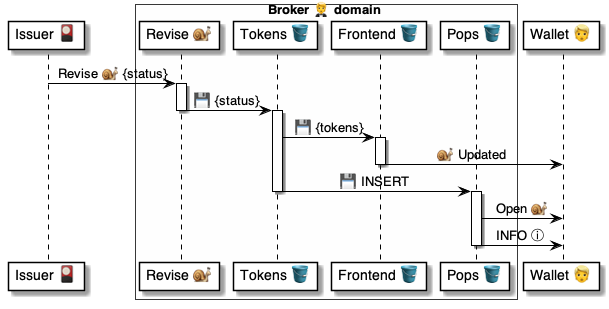
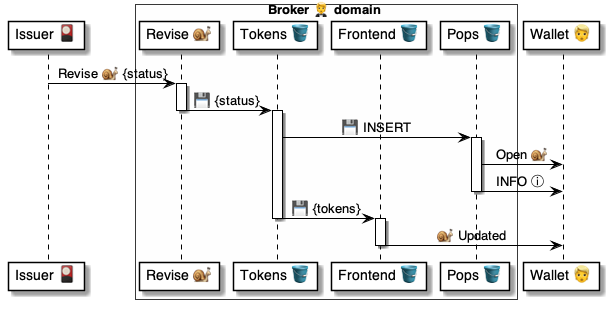
.

Changed region(s): [[0.4368, 0.3786, 0.936, 0.8155]]

diff --git a/4 ⚙ Solution/20 🧑🦰 UI/Brokers 🤵/🤵🪣 Broker tables/Pops 🎈 table/🪣 Pops/🤵 Broker.Pops 🪣 table.md b/4 ⚙ Solution/20 🧑🦰 UI/Brokers 🤵/🤵🪣 Broker tables/Pops 🎈 table/🪣 Pops/🤵 Broker.Pops 🪣 table.md
@@ -2,6 +2,10 @@
 
 > Implements the [Broker 🤵 domain](<../../../🤵 Broker helper/🤵 Broker 🤲 helper.md>)
 
+> Data access
+* [`SAVE`](<../../../../../37 Scripts 📃/📃 Commands ⌘/⌘ for datasets 🪣/SAVE 💾/💾 SAVE ⌘ cmd.md>) by [`OnPopInserted` 🔔](<../🪣🔔 11 Pop/🤵 OnPopInserted 🔔 handler.md>) after [`Pop@Broker` 🅰](<../../../🤵🅰 Broker methods/Wallets 🧑🦰 Pop 🧑🦰🐌🤵/🤵 Pop 🐌 msg.md>)
+* [`SAVE`](<../../../../../37 Scripts 📃/📃 Commands ⌘/⌘ for datasets 🪣/SAVE 💾/💾 SAVE ⌘ cmd.md>) by [`OnTokenRevised` 🔔](<../../Tokens 🎫 table/🪣🔔 7 Revised/🤵 OnTokenRevised 🔔 handler.md>) after [`Revise@Broker` 🅰](<../../../🤵🅰 Broker methods/Tokens 🎫 Revise 🎴🐌🤵/🤵 Revise 🐌 msg.md>)
+
 <br/>
 
 ## Lifecycle
@@ -15,19 +19,35 @@
 Here's the [Itemized 🛢 schema](<../../../../../30 🧩 Data/Datasets 🪣/🪣🔣 Dataset types/Itemized 🛢 dataset.md>).
 
 ```yaml
-# Pops.yaml
-
 Prefix: Broker
 Table: Pops
 Item: Pop
+```
 
+<br/>
+
+Here's the [Item 🛢 Parents](<../../../../../30 🧩 Data/Datasets 🪣/🪣🛢 Itemized datasets/Item 🛢 Parents.md>) definition.
+
+```yaml
 Parents:
-    Wallet: { Wallets.ID: Pops.Wallet }
-    Chat: { Chats.ID: Pops.Chat }
-    Token: 
+
+    Wallet: # Wallet that called Pop@Broker
+        Wallets.ID: Pops.Wallet
+
+    Chat: # Chat created for the Pop-up
+        Chats.ID: Pops.Chat
+
+    Token: # Token that inserted a Pop on Revise@Broker
         Tokens.Token: Pops.Inputs.Key.Token
         Tokens.Issuer: Pops.Inputs.Key.Issuer 
+```
+🪣 References: [`Broker.Chats`](<../../Chats 💬 table/🪣 Chats/🤵 Broker.Chats 🪣 table.md>) [`Broker.Tokens`](<../../Tokens 🎫 table/🪣 Tokens/🤵 Broker.Tokens 🪣 table.md>) [`Broker.Wallets`](<../../Wallets 🧑🦰 table/🪣 Wallets/🤵 Broker.Wallets 🪣 table.md>) 
 
+<br/>
+
+Here's the [Item 🛢 Handlers](<../../../../../30 🧩 Data/Datasets 🪣/🪣🛢 Itemized datasets/Item 🛢 Handlers.md>) definition.
+
+```yaml
 Handlers:
 
     OnPopInserted: # Open a Chat 💬
@@ -53,12 +73,13 @@ Handlers:
         Events: POPPED
         Assert: Context.Is(TOKEN.REVISED)
 ```
-
-## Links
-
-| Link | Table | Contains
-|-|-|-
-| Parents   | [`Wallets` 🪣](<../../Wallets 🧑🦰 table/🪣 Wallets/🤵 Broker.Wallets 🪣 table.md>) | [Wallets 🧑🦰](<../../../../Wallets 🧑🦰/🧑🦰 Wallet app/🧑🦰 Wallet 🛠 app.md>)
+Calls: 
+* [`OnPopInserted` 🔔 handler](<../🪣🔔 11 Pop/🤵 OnPopInserted 🔔 handler.md>) 
+* [`OnPopWallet` 🔔 handler](<../🪣🔔 21 Wallet/🤵 OnPopWallet 🔔 handler.md>) 
+* [`OnPopChat` 🔔 handler](<../🪣🔔 31 Chat/🤵 OnPopChat 🔔 handler.md>) 
+* [`OnPopBind` 🔔 handler](<../🪣🔔 51 Bind/🤵 OnPopBind 🔔 handler.md>) 
+* [`OnPopToken` 🔔 handler](<../🪣🔔 61 Token/🤵 OnPopToken 🔔 handler.md>) 
+* [`OnPopTokenRevised` 🔔 handler](<../🪣🔔 65 Token.Revised/🤵 OnPopTokenRevised 🔔 handler.md>)
 
 <br/>
 

diff --git a/4 ⚙ Solution/20 🧑🦰 UI/Brokers 🤵/🤵🪣 Broker tables/Tokens 🎫 table/🪣⏩ Flows/2 Revise/🤵 Broker.Tokens.Revise ⏩ flow.md b/4 ⚙ Solution/20 🧑🦰 UI/Brokers 🤵/🤵🪣 Broker tables/Tokens 🎫 table/🪣⏩ Flows/2 Revise/🤵 Broker.Tokens.Revise ⏩ flow.md
@@ -11,7 +11,8 @@
 Step | Purpose |
 |-|-
 |[`Revise@Broker` 🅰 method](<../../../../🤵🅰 Broker methods/Tokens 🎫 Revise 🎴🐌🤵/🤵 Revise 🐌 msg.md>)| Message for [Issuer 🎴 domains](<../../../../../../41 🎭 Domain Roles/Issuers 🎴/🎴 Issuer/🎴🎭 Issuer role.md>) to change a [Token 🎫](<../../../../../../30 🧩 Data/Tokens 🎫/🎫 Token/🎫 Token.md>)
-|[`Revise` 📃 handler](<../../../../🤵🅰 Broker methods/Tokens 🎫 Revise 🎴🐌🤵/🤵 Revise 📃 handler.md>)| [Script 📃](<../../../../../../35 💬 Chats/Scripts 📃/Script 📃.md>) that saves the [Token 🎫](<../../../../../../30 🧩 Data/Tokens 🎫/🎫 Token/🎫 Token.md>) status
-|[`OnFrontendAltered` 📃 handler](<../../../Frontend 📱 table/🪣🔔 on Altered/🤵 OnFrontendAltered 🔔 handler.md>)| [Script 📃](<../../../../../../35 💬 Chats/Scripts 📃/Script 📃.md>) that refreshes the Frontend display
+|[`Revise@Broker` 📃 handler](<../../../../🤵🅰 Broker methods/Tokens 🎫 Revise 🎴🐌🤵/🤵 Revise 📃 handler.md>)| [Script 📃](<../../../../../../35 💬 Chats/Scripts 📃/Script 📃.md>) that saves the [Token 🎫](<../../../../../../30 🧩 Data/Tokens 🎫/🎫 Token/🎫 Token.md>) status
+|[`OnTokenRevised` 🔔 handler](<../../🪣🔔 7 Revised/🤵 OnTokenRevised 🔔 handler.md>)| [Script 📃](<../../../../../../35 💬 Chats/Scripts 📃/Script 📃.md>) that registers a Pop
+|[`OnPopTokenRevised` 🔔 handler](<../../../Pops 🎈 table/🪣🔔 65 Token.Revised/🤵 OnPopTokenRevised 🔔 handler.md>) | [Script 📃](<../../../../../../35 💬 Chats/Scripts 📃/Script 📃.md>) that notifies the user
+|[`OnFrontendAltered` 🔔 handler](<../../../Frontend 📱 table/🪣🔔 on Altered/🤵 OnFrontendAltered 🔔 handler.md>)| [Script 📃](<../../../../../../35 💬 Chats/Scripts 📃/Script 📃.md>) that refreshes the Frontend display
 |[`Frontend@Broker` 🅰 method](<../../../../🤵🅰 Broker methods/Wallets 🧑🦰 Frontend 🧑🦰🚀🤵/🤵 Frontend 📃 handler.md>)| Call by a [Wallet 🧑🦰 app](<../../../../../Wallets 🧑🦰/🧑🦰 Wallet app/🧑🦰 Wallet 🛠 app.md>) app to get the display
-|[`OnTokenRevised` 📃 handler](<../../🪣🔔 7 Revised/🤵 OnTokenRevised 🔔 handler.md>)| [Script 📃](<../../../../../../35 💬 Chats/Scripts 📃/Script 📃.md>) that notifies the [`Frontend`](<../../../../🤵🅰 Broker methods/Wallets 🧑🦰 Frontend 🧑🦰🚀🤵/🤵 Frontend 📃 handler.md>) of the change

diff --git a/4 ⚙ Solution/20 🧑🦰 UI/Brokers 🤵/🤵🪣 Broker tables/Tokens 🎫 table/🪣🔔 7 Revised/🤵 OnTokenRevised 🔔 handler.md b/4 ⚙ Solution/20 🧑🦰 UI/Brokers 🤵/🤵🪣 Broker tables/Tokens 🎫 table/🪣🔔 7 Revised/🤵 OnTokenRevised 🔔 handler.md
@@ -1,4 +1,6 @@
-# 🤵 OnTokenRevised 📃 handler
+# 🤵 OnTokenRevised 🔔 handler
+
+> Part of the [`Broker.Tokens` 🪣 table](<../🪣 Tokens/🤵 Broker.Tokens 🪣 table.md>)
 
 <br/>
 
@@ -28,3 +30,9 @@
         Token: $Token.Token
         Issuer: $Token.Issuer
 ```
+
+Uses||
+|-|-
+| [Commands ⌘](<../../../../../35 💬 Chats/Scripts 📃/Command ⌘.md>) | [`ASSERT`](<../../../../../37 Scripts 📃/📃 Commands ⌘/⌘ for holders 🧠/ASSERT 🚦/🚦 ASSERT ⌘ cmd.md>) [`SAVE`](<../../../../../37 Scripts 📃/📃 Commands ⌘/⌘ for datasets 🪣/SAVE 💾/💾 SAVE ⌘ cmd.md>) |
+| [Datasets 🪣](<../../../../../30 🧩 Data/Datasets 🪣/🪣 Dataset.md>) | [`Broker.Pops`](<../../Pops 🎈 table/🪣 Pops/🤵 Broker.Pops 🪣 table.md>) [`Broker.Tokens`](<../🪣 Tokens/🤵 Broker.Tokens 🪣 table.md>) 
+|

diff --git a/4 ⚙ Solution/20 🧑🦰 UI/Brokers 🤵/🤵🪣 Broker tables/Tokens 🎫 table/🪣🔔 5 Saved/🤵 OnTokenSaved 🔔 handler.md b/4 ⚙ Solution/20 🧑🦰 UI/Brokers 🤵/🤵🪣 Broker tables/Tokens 🎫 table/🪣🔔 5 Saved/🤵 OnTokenSaved 🔔 handler.md
@@ -1,5 +1,7 @@
 # 🤵 OnTokenAccepted 📃 handler
 
+> Part of the [`Broker.Tokens` 🪣 table](<../🪣 Tokens/🤵 Broker.Tokens 🪣 table.md>)
+
 > Purpose
 * [Script 📃](<../../../../../35 💬 Chats/Scripts 📃/Script 📃.md>) that reacts to the acceptance of a [Token 🎫](<../../../../../30 🧩 Data/Tokens 🎫/🎫 Token/🎫 Token.md>) by a [Wallet 🧑🦰 app](<../../../../Wallets 🧑🦰/🧑🦰 Wallet app/🧑🦰 Wallet 🛠 app.md>).
 * Part of the [`Broker.Tokens.Insert` ⏩ flow](<../🪣⏩ Flows/1 Issue/🤵 Broker.Tokens.Issued ⏩ flow.md>)

diff --git a/4 ⚙ Solution/20 🧑🦰 UI/Brokers 🤵/🤵🪣 Broker tables/Tokens 🎫 table/🪣🔔 1 Issued/🤵 OnTokenIssued 🔔 handler.md b/4 ⚙ Solution/20 🧑🦰 UI/Brokers 🤵/🤵🪣 Broker tables/Tokens 🎫 table/🪣🔔 1 Issued/🤵 OnTokenIssued 🔔 handler.md
@@ -1,5 +1,7 @@
 # 🤵 OnTokenOffered 📃 handler
   
+> Part of the [`Broker.Tokens` 🪣 table](<../🪣 Tokens/🤵 Broker.Tokens 🪣 table.md>)
+
 > Purpose
 * [Script 📃](<../../../../../35 💬 Chats/Scripts 📃/Script 📃.md>) that reacts to the [`Issue@Broker` 🅰 method](<../../../🤵🅰 Broker methods/Tokens 🎫 Issue 🎴🐌🤵/🤵 Issue 🐌 msg.md>).
 * Part of the [🤵 Broker.Tokens.Insert ⏩ flow](<../🪣⏩ Flows/1 Issue/🤵 Broker.Tokens.Issued ⏩ flow.md>)

diff --git a/4 ⚙ Solution/20 🧑🦰 UI/Brokers 🤵/🤵🪣 Broker tables/Tokens 🎫 table/🪣🔔 2 Detailed/🤵 OnTokenDetailed 🔔 handler.md b/4 ⚙ Solution/20 🧑🦰 UI/Brokers 🤵/🤵🪣 Broker tables/Tokens 🎫 table/🪣🔔 2 Detailed/🤵 OnTokenDetailed 🔔 handler.md
@@ -1,5 +1,7 @@
 # 🤵 OnTokenDetailed 📃 handler
 
+> Part of the [`Broker.Tokens` 🪣 table](<../🪣 Tokens/🤵 Broker.Tokens 🪣 table.md>)
+
 > Purpose
 * [Script 📃](<../../../../../35 💬 Chats/Scripts 📃/Script 📃.md>) that asks the user to confirm or decline a newly issued [Token 🎫](<../../../../../30 🧩 Data/Tokens 🎫/🎫 Token/🎫 Token.md>).
 * Part of the [🤵 Broker.Tokens.Insert ⏩ flow](<../🪣⏩ Flows/1 Issue/🤵 Broker.Tokens.Issued ⏩ flow.md>)

diff --git a/4 ⚙ Solution/20 🧑🦰 UI/Brokers 🤵/🤵🪣 Broker tables/Tokens 🎫 table/🪣🔔 3 Offered/🤵 OnTokenOffered 🔔 handler.md b/4 ⚙ Solution/20 🧑🦰 UI/Brokers 🤵/🤵🪣 Broker tables/Tokens 🎫 table/🪣🔔 3 Offered/🤵 OnTokenOffered 🔔 handler.md
@@ -1,5 +1,7 @@
 # 🤵 OnTokenOffered 📃 handler
 
+> Part of the [`Broker.Tokens` 🪣 table](<../🪣 Tokens/🤵 Broker.Tokens 🪣 table.md>)
+
 > Purpose
 * [Script 📃](<../../../../../35 💬 Chats/Scripts 📃/Script 📃.md>) that processes user response to an offered [Token 🎫](<../../../../../30 🧩 Data/Tokens 🎫/🎫 Token/🎫 Token.md>).
 * Part of the [🤵 Broker.Tokens.Insert ⏩ flow](<../🪣⏩ Flows/1 Issue/🤵 Broker.Tokens.Issued ⏩ flow.md>)

diff --git a/4 ⚙ Solution/20 🧑🦰 UI/Brokers 🤵/🤵🪣 Broker tables/Tokens 🎫 table/🪣🔔 A Deleted/🤵 OnTokenDeleted 🔔 handler.md b/4 ⚙ Solution/20 🧑🦰 UI/Brokers 🤵/🤵🪣 Broker tables/Tokens 🎫 table/🪣🔔 A Deleted/🤵 OnTokenDeleted 🔔 handler.md
@@ -1,7 +1,8 @@
 # 🤵 OnTokenPurged 📃 handler
 
-> Purpose: 
+> 
 
+> Purpose
 * [Script 📃](<../../../../../35 💬 Chats/Scripts 📃/Script 📃.md>) to execute when a soft delete of [`Tokens` 🪣 table](<../🪣 Tokens/🤵 Broker.Tokens 🪣 table.md>) is purged.
 * Triggered by the [`Raised@Itemizer` 🔔 event](<../../../../../45 🤲 Helper domains/Itemizers 🛢/🛢🔔 Itemizer events/🛢🔔 Raised.md>)
 

diff --git a/4 ⚙ Solution/20 🧑🦰 UI/Brokers 🤵/🤵🪣 Broker tables/Tokens 🎫 table/🪣🔔 0 Altered/🤵 OnTokenAltered 🔔 handler.md b/4 ⚙ Solution/20 🧑🦰 UI/Brokers 🤵/🤵🪣 Broker tables/Tokens 🎫 table/🪣🔔 0 Altered/🤵 OnTokenAltered 🔔 handler.md
@@ -1,5 +1,7 @@
 # 🤵 OnTokenAltered 📃 handler
 
+> Part of the [`Broker.Tokens` 🪣 table](<../🪣 Tokens/🤵 Broker.Tokens 🪣 table.md>)
+
 > Purpose
 
 * [Script 📃](<../../../../../35 💬 Chats/Scripts 📃/Script 📃.md>) 

diff --git a/4 ⚙ Solution/20 🧑🦰 UI/Brokers 🤵/🤵🪣 Broker tables/Tokens 🎫 table/🪣🔔 6 Localized/🤵 OnTokenLocalized 📃 handler.md b/4 ⚙ Solution/20 🧑🦰 UI/Brokers 🤵/🤵🪣 Broker tables/Tokens 🎫 table/🪣🔔 6 Localized/🤵 OnTokenLocalized 📃 handler.md
@@ -1,5 +1,7 @@
 # 🤵 OnTokenLocalized 📃 handler
   
+> Part of the [`Broker.Tokens` 🪣 table](<../🪣 Tokens/🤵 Broker.Tokens 🪣 table.md>)
+
 <br/>
 
 ## Diagram

diff --git a/4 ⚙ Solution/20 🧑🦰 UI/Brokers 🤵/🤵🪣 Broker tables/Tokens 🎫 table/🪣🔔 4 Declined/🤵 OnTokenDeclined 📃 handler.md b/4 ⚙ Solution/20 🧑🦰 UI/Brokers 🤵/🤵🪣 Broker tables/Tokens 🎫 table/🪣🔔 4 Declined/🤵 OnTokenDeclined 📃 handler.md
@@ -1,5 +1,8 @@
 # 🤵 OnTokenDeclined 📃 handler
 
+> Part of the [`Broker.Tokens` 🪣 table](<../🪣 Tokens/🤵 Broker.Tokens 🪣 table.md>)
+
+<br/>
 
 ## Diagram
 

diff --git a/4 ⚙ Solution/20 🧑🦰 UI/Brokers 🤵/🤵🅰 Broker methods/Wallets 🧑🦰 Pop 🧑🦰🐌🤵/🤵 Pop 📃 handler.md b/4 ⚙ Solution/20 🧑🦰 UI/Brokers 🤵/🤵🅰 Broker methods/Wallets 🧑🦰 Pop 🧑🦰🐌🤵/🤵 Pop 📃 handler.md
@@ -2,6 +2,7 @@
 
 > Purpose
 * [Script 📃](<🤵 Pop 🐌 msg.md>) that implements the [`Pop@Broker` 🅰 method](<🤵 Pop 🐌 msg.md>)
+* Part of the 
 
 <br/>
 
